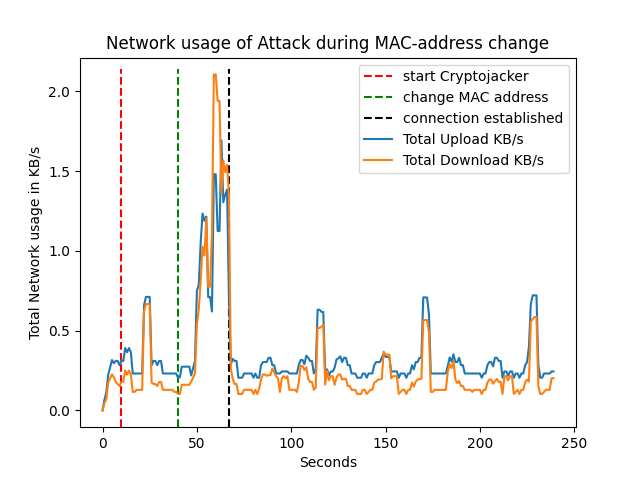
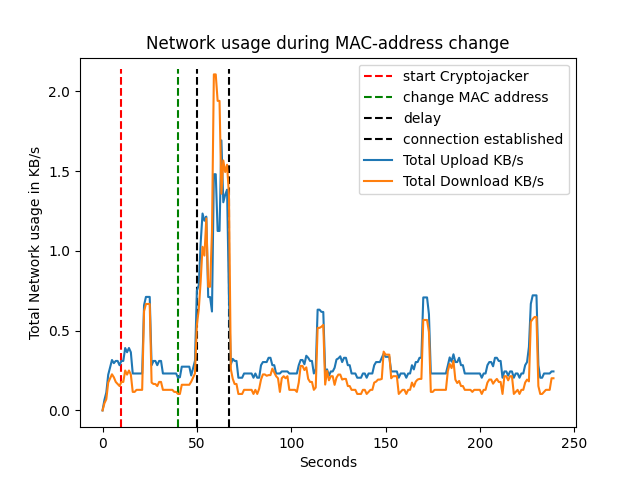
update

Changed region(s): [[0.5625, 0.2188, 0.875, 0.4062], [0.1562, 0.0625, 0.875, 0.125], [0.5625, 0.2812, 0.5938, 0.3438]]

diff --git a/main.py b/main.py
@@ -54,13 +54,14 @@ upxmr,downxmr,upsensor,downsensor = Parser("nethogs.txt").parse()
 
 avg = 100-47.54
 #plt.plot(memory, label="Sent KB/s")
-plt.title("Network usage of Attack during MAC-address change")
+plt.title("Network usage during MAC-address change")
 #plt.plot(upxmr, label="XMRig upload KB/s")
 #plt.plot(downxmr, label="XMRig download KB/s")
 #plt.plot(upsensor, label="Sensor upload KB/s")
 #plt.plot(downsensor, label="Sensor download KB/s")
 plt.axvline(x=10, linestyle="dashed", color="red",ymax=0.97, label="start Cryptojacker")
 plt.axvline(x=40, linestyle="dashed", color="green",ymax=0.97, label="change MAC address")
+plt.axvline(x=50, linestyle="dashed", color="black",ymax=0.97, label="delay")
 plt.axvline(x=67, linestyle="dashed", color="black",ymax=0.97, label="connection established")
 #plt.axvline(x=80, linestyle="dashed", color="green",ymax=0.97, label="killed Cryptojacker")
 
